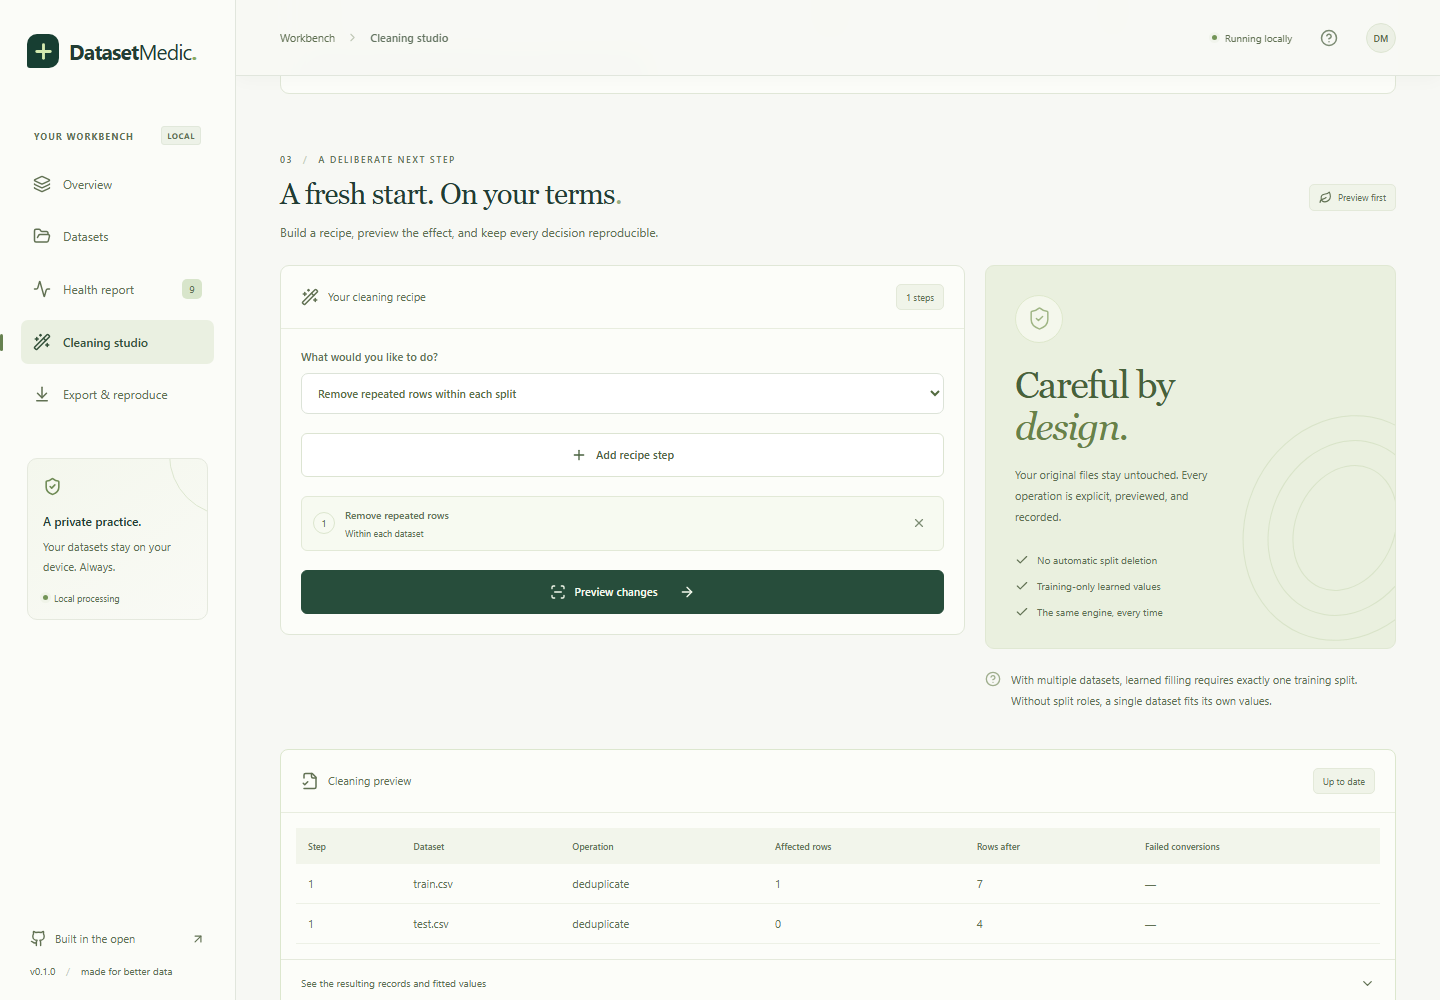
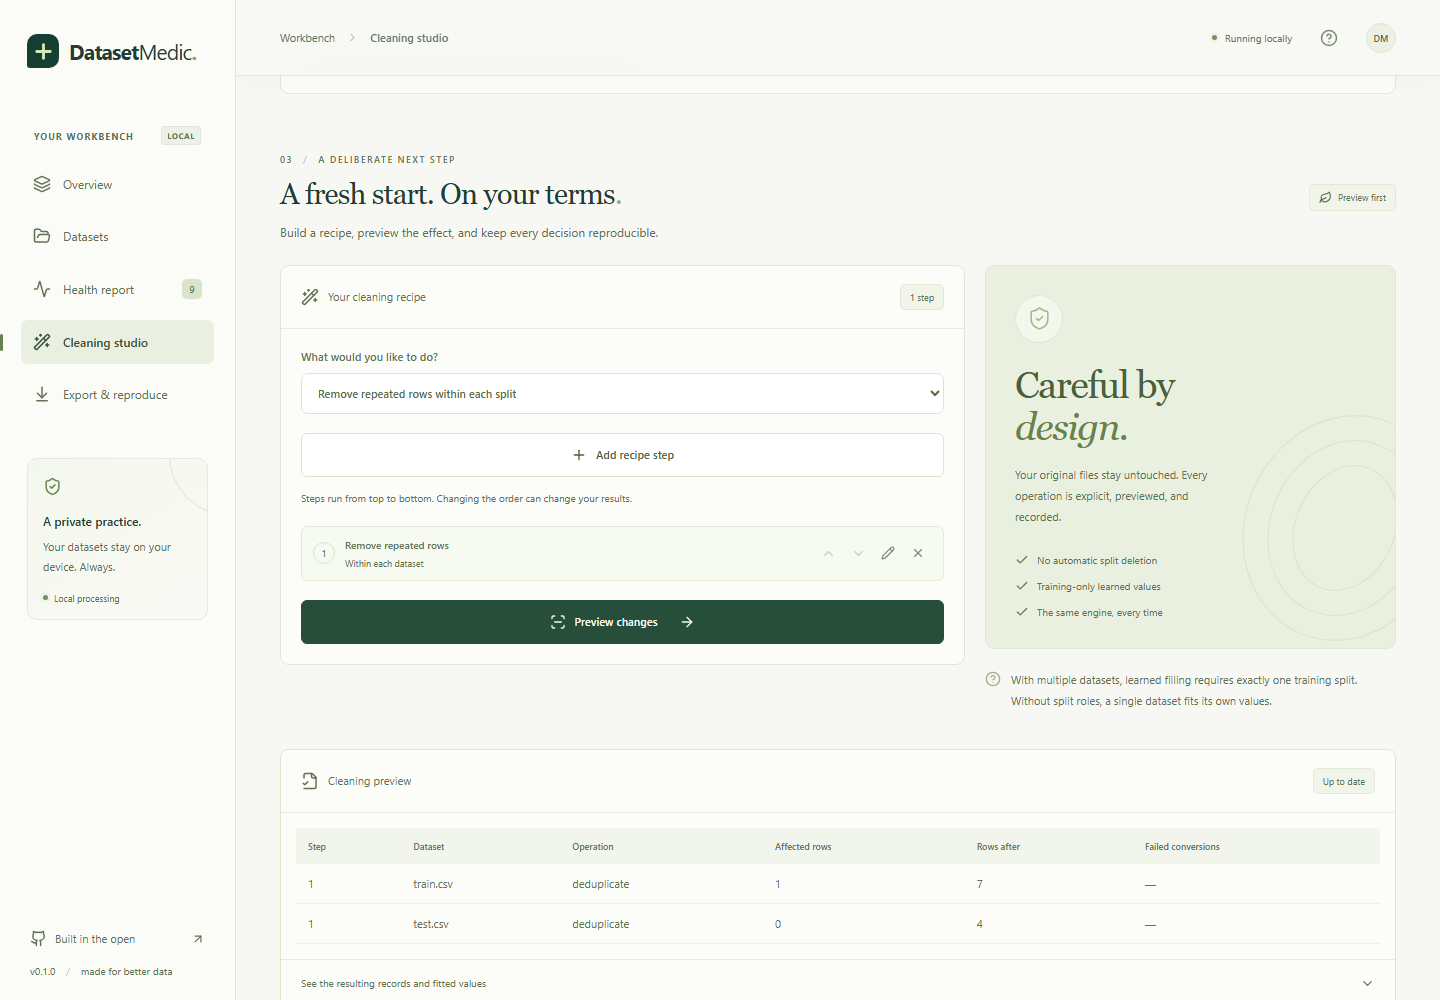
docs: show editable recipes and record scheduled work progress

Changed region(s): [[0.1875, 0.496, 0.6562, 0.651]]

diff --git a/ROADMAP.md b/ROADMAP.md
@@ -22,7 +22,7 @@ The 14-day development window is October 17–30, 2026. Scheduled work: 10:00, 1
 3. Expand boundary fixtures for nulls, types, hashing collisions, malformed imports and resource limits.
 4. Benchmark larger/split datasets; reduce memory use where measurements justify changes.
 5. Improve import feedback and column selection for wider datasets.
-6. Add stronger recipe editing/reordering and clearer comparison summaries.
+6. Recipe editing/reordering shipped on `main` October 18; continue recipe diagnostics and clearer comparison summaries.
 7. Add only well-tested diagnostics with evidence, documented limitations and a useful demo.
 8. Refresh screenshots, changelog and release assets when behavior changes.
 
@@ -39,3 +39,13 @@ Added a browser regression for literal text fills; all seven browser scenarios p
 GitHub Actions completed successfully across Windows/Linux and Python 3.11/3.14 for commit df98db1. Final visual review found that the scroll observer's percentage threshold could keep very tall wide-dataset panels hidden. Changed entry detection to support oversized panels and verified the fix with a 500-column browser regression (eighth scenario). Release assets will be rebuilt from the final checked source.
 
 Final commit 9bf5245 passed all four Windows/Linux × Python 3.11/3.14 CI jobs, including all eight browser scenarios on Linux. Latest wheel passed the 20 Python tests in a clean Python 3.11 environment. Published [v0.1.0](https://github.com/Aadithya-Ram/DatasetMedic/releases/tag/v0.1.0) with wheel, source archive and SHA256SUMS. GitHub recognizes the MIT license and attributes commits to Aadithya-Ram. Confirmed the heartbeat remains active for the three agreed daily slots. The first release is complete; scheduled sessions should now select substantive improvements from the continuing roadmap above.
+
+## October 18, 2026 — editable recipes and keyboard navigation
+
+All baseline remote checks were green at session start. Added editing/cancelling and earlier/later movement for recipe steps, with explicit ordered-list semantics, restored keyboard focus and live announcements. Saving or reordering invalidates earlier previews; unfinished edits block preview/export. Browser regressions verify that changing drop/deduplicate order changes row counts and that edited literal fills reach the resulting records. The request contract and engine are unchanged. Added a skip link and selected/current states for column chips, filters and navigation.
+
+Final local validation: 20 Python tests, all 11 browser scenarios, lint, production build and complete-wheel checks passed. The new order test also runs on a 390px viewport and verifies no horizontal page overflow. Refreshed four screenshots and visually checked the new recipe controls. Added an unreleased changelog and a clear README note distinguishing `main` improvements from v0.1.0. Remote CI verification follows the pushes. Features are available from source on `main`; the v0.1.0 release is retained unchanged.
+
+The heartbeat arrived at 02:30 India time for the stored 21:00 recurrence. Updated the existing automation to encode the intended 10:00/16:00/21:00 India slots as 04:30/10:30/15:30 UTC, retaining the October 30 end date. The next run's actual delivery time should confirm the correction.
+
+Community Wisdom: DevRelay tools were not available in this session; no community claims were used.

diff --git a/DEVELOPMENT.md b/DEVELOPMENT.md
@@ -6,6 +6,8 @@ React/TypeScript is built by Vite into the Python wheel. FastAPI serves it on a 
 
 `engine.py` owns auditing and transformations. The interface never implements data transformations. Exported reproduction scripts call `execute_recipe` from the same package and require matching source fingerprints. The cleaning recipe is ordered; later steps see earlier results. For learned imputation, one training dataset fits the values; multiple datasets without a training assignment are rejected. A single dataset can fit its own values. Median filling widens integer columns when needed. Tied modes choose the first sorted value. All-null fitted columns produce an explicit error. Conversion failures produce nulls, visible in preview and requiring acknowledgement in the interface before export.
 
+The recipe editor keeps unsaved form values separate from the applied ordered recipe. Save replaces the selected step; Cancel discards the draft. Moving/removing is disabled while editing or running a job. Any saved edit, move or removal invalidates prior preview/export approval. Focus returns to the edited/moved/remaining control, with a live status announcement. Request shapes and the Python engine remain unchanged.
+
 ## Local setup
 
 Use Python 3.11+ and Node 22+. Install `.[dev]` in `.venv`, then run `npm ci` in `web`.
@@ -32,6 +34,8 @@ GitHub Actions checks Windows/Linux and Python 3.11/3.14, builds the wheel and p
 ## Work schedule and locking
 
 The chat heartbeat runs at 10:00, 16:00 and 21:00 Asia/Kolkata through October 30, 2026. The computer must be awake, online, and the desktop app running. Sessions may make several meaningful commits; no empty commits, backdating, or artificial splitting. Do not defer completed work to create activity later.
+
+On October 18 an observed 21:00 UTC trigger arrived at 02:30 India time. The stored recurrence was adjusted to 04:30, 10:30 and 15:30 UTC, corresponding to the intended local slots. Preserve the intended India-time schedule; verify the next actual trigger rather than assuming the recurrence is interpreted in the Windows timezone.
 
 Before edits, start `python scripts/work_session.py` in a retained terminal tool session (TTY enabled). Wait for `LOCK ACQUIRED`; preserve its session ID and keep it alive through edits, checks and pushes. If it returns 75/BUSY, skip the run. Release by sending a newline to that session. This uses an OS-backed advisory lock: a crashed holder releases automatically. Every automated writer must participate in this convention.
 

diff --git a/CHANGELOG.md b/CHANGELOG.md
@@ -1,0 +1,15 @@
+# Changelog
+
+## Unreleased — available from `main`
+
+- Edit a cleaning step in place, save changes, or cancel without altering the approved recipe.
+- Move steps earlier/later with explicit controls. Preview and export use the resulting order.
+- Keep keyboard focus on moved or edited steps; announce recipe changes to screen readers.
+- Require a fresh preview after a saved edit, reorder or removal. Block preview/export while editing an unfinished draft.
+- Add a skip-to-workbench link and announce selected column/filter buttons and the current navigation section.
+
+The downloadable v0.1.0 release does not include these interface improvements yet. Build from `main` to try them.
+
+## 0.1.0 — October 17, 2026
+
+Initial local CSV/Parquet workbench: data audits, exact split/group overlap evidence, ordered cleaning previews, training-only learned imputation, reproducible exports, responsive interface, scroll reveals and reduced-motion support.

diff --git a/README.md b/README.md
@@ -64,6 +64,8 @@ Preview and export use the same transformation engine. Learned fills use **only 
 
 Failed type conversions create null values and are counted in the preview. Export requires acknowledging those failures. Numeric median filling preserves fractional values, and tied modes use deterministic ordering.
 
+**New on `main`:** edit saved recipe steps or move them earlier/later without rebuilding the recipe. A changed recipe needs a fresh preview before export. These interface improvements are not yet in the v0.1.0 download; use [Build from source](#build-from-source) to try them. See the [changelog](CHANGELOG.md).
+
 ### What’s in an export?
 
 ```text
